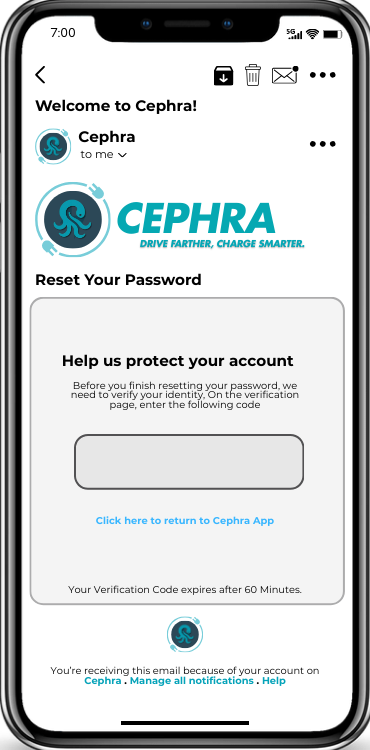
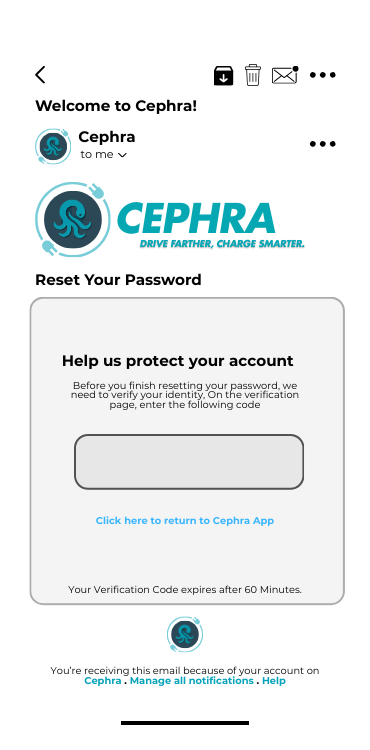
"Design Cleaning"

Changed region(s): [[0.0, 0.0, 1.0, 1.0]]

diff --git a/src/main/java/cephra/Phone/PasswordVerify.java b/src/main/java/cephra/Phone/PasswordVerify.java
@@ -64,9 +64,10 @@ public class PasswordVerify extends javax.swing.JPanel {
         cephramail.setFont(new java.awt.Font("Segoe UI", 1, 12)); // NOI18N
         cephramail.setText("dizon@cephra.com");
         add(cephramail);
-        cephramail.setBounds(185, 251, 190, 20);
+        cephramail.setBounds(200, 251, 160, 20);
 
         code6.setFont(new java.awt.Font("Segoe UI", 1, 18)); // NOI18N
+        code6.setHorizontalAlignment(javax.swing.JTextField.CENTER);
         code6.setText("1");
         code6.setBorder(null);
         code6.addActionListener(new java.awt.event.ActionListener() {
@@ -78,6 +79,7 @@ public class PasswordVerify extends javax.swing.JPanel {
         code6.setBounds(300, 310, 30, 50);
 
         code5.setFont(new java.awt.Font("Segoe UI", 1, 18)); // NOI18N
+        code5.setHorizontalAlignment(javax.swing.JTextField.CENTER);
         code5.setText("1");
         code5.setBorder(null);
         code5.addActionListener(new java.awt.event.ActionListener() {
@@ -86,9 +88,10 @@ public class PasswordVerify extends javax.swing.JPanel {
             }
         });
         add(code5);
-        code5.setBounds(250, 310, 40, 50);
+        code5.setBounds(248, 310, 30, 50);
 
         code4.setFont(new java.awt.Font("Segoe UI", 1, 18)); // NOI18N
+        code4.setHorizontalAlignment(javax.swing.JTextField.CENTER);
         code4.setText("1");
         code4.setBorder(null);
         code4.addActionListener(new java.awt.event.ActionListener() {
@@ -97,9 +100,10 @@ public class PasswordVerify extends javax.swing.JPanel {
             }
         });
         add(code4);
-        code4.setBounds(190, 310, 40, 50);
+        code4.setBounds(197, 310, 30, 50);
 
         code3.setFont(new java.awt.Font("Segoe UI", 1, 18)); // NOI18N
+        code3.setHorizontalAlignment(javax.swing.JTextField.CENTER);
         code3.setText("1");
         code3.setBorder(null);
         code3.addActionListener(new java.awt.event.ActionListener() {
@@ -108,9 +112,10 @@ public class PasswordVerify extends javax.swing.JPanel {
             }
         });
         add(code3);
-        code3.setBounds(140, 310, 50, 50);
+        code3.setBounds(145, 310, 30, 50);
 
         code2.setFont(new java.awt.Font("Segoe UI", 1, 18)); // NOI18N
+        code2.setHorizontalAlignment(javax.swing.JTextField.CENTER);
         code2.setText("1");
         code2.setBorder(null);
         code2.addActionListener(new java.awt.event.ActionListener() {
@@ -119,9 +124,10 @@ public class PasswordVerify extends javax.swing.JPanel {
             }
         });
         add(code2);
-        code2.setBounds(80, 310, 50, 50);
+        code2.setBounds(93, 310, 30, 50);
 
         code1.setFont(new java.awt.Font("Segoe UI", 1, 18)); // NOI18N
+        code1.setHorizontalAlignment(javax.swing.JTextField.CENTER);
         code1.setText("1");
         code1.setBorder(null);
         code1.addActionListener(new java.awt.event.ActionListener() {
@@ -130,7 +136,7 @@ public class PasswordVerify extends javax.swing.JPanel {
             }
         });
         add(code1);
-        code1.setBounds(30, 310, 50, 50);
+        code1.setBounds(40, 310, 30, 50);
 
         resend.setFont(new java.awt.Font("Segoe UI", 0, 14)); // NOI18N
         resend.setForeground(new java.awt.Color(0, 204, 204));
@@ -146,7 +152,7 @@ public class PasswordVerify extends javax.swing.JPanel {
             }
         });
         add(resend);
-        resend.setBounds(212, 431, 120, 40);
+        resend.setBounds(230, 430, 90, 40);
 
         Back.setFont(new java.awt.Font("Segoe UI", 0, 14)); // NOI18N
         Back.setForeground(new java.awt.Color(0, 204, 204));

diff --git a/src/main/java/cephra/Phone/LinkFirst.java b/src/main/java/cephra/Phone/LinkFirst.java
@@ -344,20 +344,24 @@ public class LinkFirst extends javax.swing.JPanel {
 
         setLayout(null);
 
-        Golink.setText("Ok");
+        Golink.setFont(new java.awt.Font("Segoe UI", 1, 12)); // NOI18N
+        Golink.setBorder(null);
+        Golink.setBorderPainted(false);
+        Golink.setContentAreaFilled(false);
         Golink.addActionListener(new java.awt.event.ActionListener() {
             public void actionPerformed(java.awt.event.ActionEvent evt) {
                 GolinkActionPerformed(evt);
             }
         });
         add(Golink);
-        Golink.setBounds(80, 90, 100, 30);
+        Golink.setBounds(80, 140, 110, 40);
 
         jLabel1.setIcon(new javax.swing.ImageIcon(getClass().getResource("/cephra/Cephra Images/Plslink.png"))); // NOI18N
         add(jLabel1);
-        jLabel1.setBounds(0, 0, 280, 140);
+        jLabel1.setBounds(0, 0, 280, 200);
     }// </editor-fold>//GEN-END:initComponents
 
+    
     private void GolinkActionPerformed(java.awt.event.ActionEvent evt) {
         System.out.println("LinkFirst Ok button clicked - navigating to link panel");
         

diff --git a/src/main/java/cephra/Phone/AlreadyFull.java b/src/main/java/cephra/Phone/AlreadyFull.java
@@ -344,7 +344,8 @@ public class AlreadyFull extends javax.swing.JPanel {
 
         setLayout(null);
 
-        Golink.setText("Ok");
+        Golink.setFont(new java.awt.Font("Segoe UI", 1, 18)); // NOI18N
+        Golink.setText("OK");
         Golink.addActionListener(new java.awt.event.ActionListener() {
             public void actionPerformed(java.awt.event.ActionEvent evt) {
                 GolinkActionPerformed(evt);
@@ -366,9 +367,9 @@ public class AlreadyFull extends javax.swing.JPanel {
     }//GEN-LAST:event_GolinkActionPerformed
     
 
-// Variables declaration - do not modify//GEN-BEGIN:variables
-private javax.swing.JButton Golink;
-private javax.swing.JLabel jLabel1;
-// End of variables declaration//GEN-END:variables
+    // Variables declaration - do not modify//GEN-BEGIN:variables
+    private javax.swing.JButton Golink;
+    private javax.swing.JLabel jLabel1;
+    // End of variables declaration//GEN-END:variables
 
 }

diff --git a/src/main/java/cephra/Phone/PayPop.java b/src/main/java/cephra/Phone/PayPop.java
@@ -366,15 +366,21 @@ public class PayPop extends javax.swing.JPanel {
 
         setLayout(null);
 
-        TICKETNUMBER.setText("9999");
+        TICKETNUMBER.setFont(new java.awt.Font("Segoe UI", 0, 14)); // NOI18N
         add(TICKETNUMBER);
-        TICKETNUMBER.setBounds(150, 70, 60, 30);
+        TICKETNUMBER.setBounds(150, 75, 90, 20);
+
+        ChargingDue.setFont(new java.awt.Font("Segoe UI", 0, 14)); // NOI18N
         add(ChargingDue);
         ChargingDue.setBounds(150, 100, 90, 20);
+
+        kWh.setFont(new java.awt.Font("Segoe UI", 0, 14)); // NOI18N
         add(kWh);
         kWh.setBounds(150, 120, 80, 20);
+
+        TotalBill.setFont(new java.awt.Font("Segoe UI", 0, 14)); // NOI18N
         add(TotalBill);
-        TotalBill.setBounds(140, 170, 90, 20);
+        TotalBill.setBounds(150, 165, 90, 20);
 
         Cash.setBorder(null);
         Cash.setContentAreaFilled(false);

diff --git a/src/main/java/cephra/Phone/Fullnotif.java b/src/main/java/cephra/Phone/Fullnotif.java
@@ -26,15 +26,15 @@ public class Fullnotif extends javax.swing.JPanel {
 
         StatusGo = new javax.swing.JLabel();
 
-        setBackground(new java.awt.Color(255, 0, 0));
+        setBackground(new java.awt.Color(255, 255, 255));
         setLayout(null);
 
         StatusGo.setBackground(new java.awt.Color(0, 0, 0));
         StatusGo.setFont(new java.awt.Font("Segoe UI", 0, 24)); // NOI18N
         StatusGo.setForeground(new java.awt.Color(255, 255, 102));
-        StatusGo.setText("Ur car is now fullcharge");
+        StatusGo.setIcon(new javax.swing.ImageIcon(getClass().getResource("/cephra/Cephra Images/FullChargePOP.png"))); // NOI18N
         add(StatusGo);
-        StatusGo.setBounds(30, 110, 270, 50);
+        StatusGo.setBounds(0, -2, 330, 70);
     }// </editor-fold>//GEN-END:initComponents
 
     /**

diff --git a/src/main/java/cephra/Phone/Myturn.java b/src/main/java/cephra/Phone/Myturn.java
@@ -26,14 +26,14 @@ public class Myturn extends javax.swing.JPanel {
 
         StatusGo = new javax.swing.JLabel();
 
-        setBackground(new java.awt.Color(255, 0, 0));
+        setBackground(new java.awt.Color(255, 255, 255));
         setLayout(null);
 
         StatusGo.setFont(new java.awt.Font("Segoe UI", 0, 14)); // NOI18N
         StatusGo.setForeground(new java.awt.Color(255, 0, 255));
-        StatusGo.setText("Please go to your bay \"baynumber\" now");
+        StatusGo.setIcon(new javax.swing.ImageIcon(getClass().getResource("/cephra/Cephra Images/NotifProceedBAY.png"))); // NOI18N
         add(StatusGo);
-        StatusGo.setBounds(40, 120, 250, 40);
+        StatusGo.setBounds(0, -2, 340, 70);
     }// </editor-fold>//GEN-END:initComponents
 
     /**

diff --git a/src/main/java/cephra/Phone/PasswordEmail.java b/src/main/java/cephra/Phone/PasswordEmail.java
@@ -70,11 +70,10 @@ public class PasswordEmail extends javax.swing.JPanel {
         add(Return);
         Return.setBounds(85, 500, 200, 40);
 
-        otpLabel.setFont(new java.awt.Font("Segoe UI", 1, 28)); // NOI18N
+        otpLabel.setFont(new java.awt.Font("Segoe UI", 1, 36)); // NOI18N
         otpLabel.setHorizontalAlignment(javax.swing.SwingConstants.CENTER);
-        otpLabel.setText("123456");
         add(otpLabel);
-        otpLabel.setBounds(82, 436, 190, 51);
+        otpLabel.setBounds(82, 436, 210, 51);
 
         jLabel1.setForeground(new java.awt.Color(255, 0, 51));
         jLabel1.setIcon(new javax.swing.ImageIcon(getClass().getResource("/cephra/Cephra Images/ResetPass.png"))); // NOI18N

diff --git a/src/main/java/cephra/Phone/NotifTicketPending.java b/src/main/java/cephra/Phone/NotifTicketPending.java
@@ -33,7 +33,7 @@ public class NotifTicketPending extends javax.swing.JPanel {
         Statuspending.setForeground(new java.awt.Color(0, 0, 255));
         Statuspending.setText("VRDLpd07ZT5oH ticket \"ticketnumber\" is now pending");
         add(Statuspending);
-        Statuspending.setBounds(40, 130, 220, 20);
+        Statuspending.setBounds(0, 70, 360, 20);
     }// </editor-fold>//GEN-END:initComponents
 
     /**
